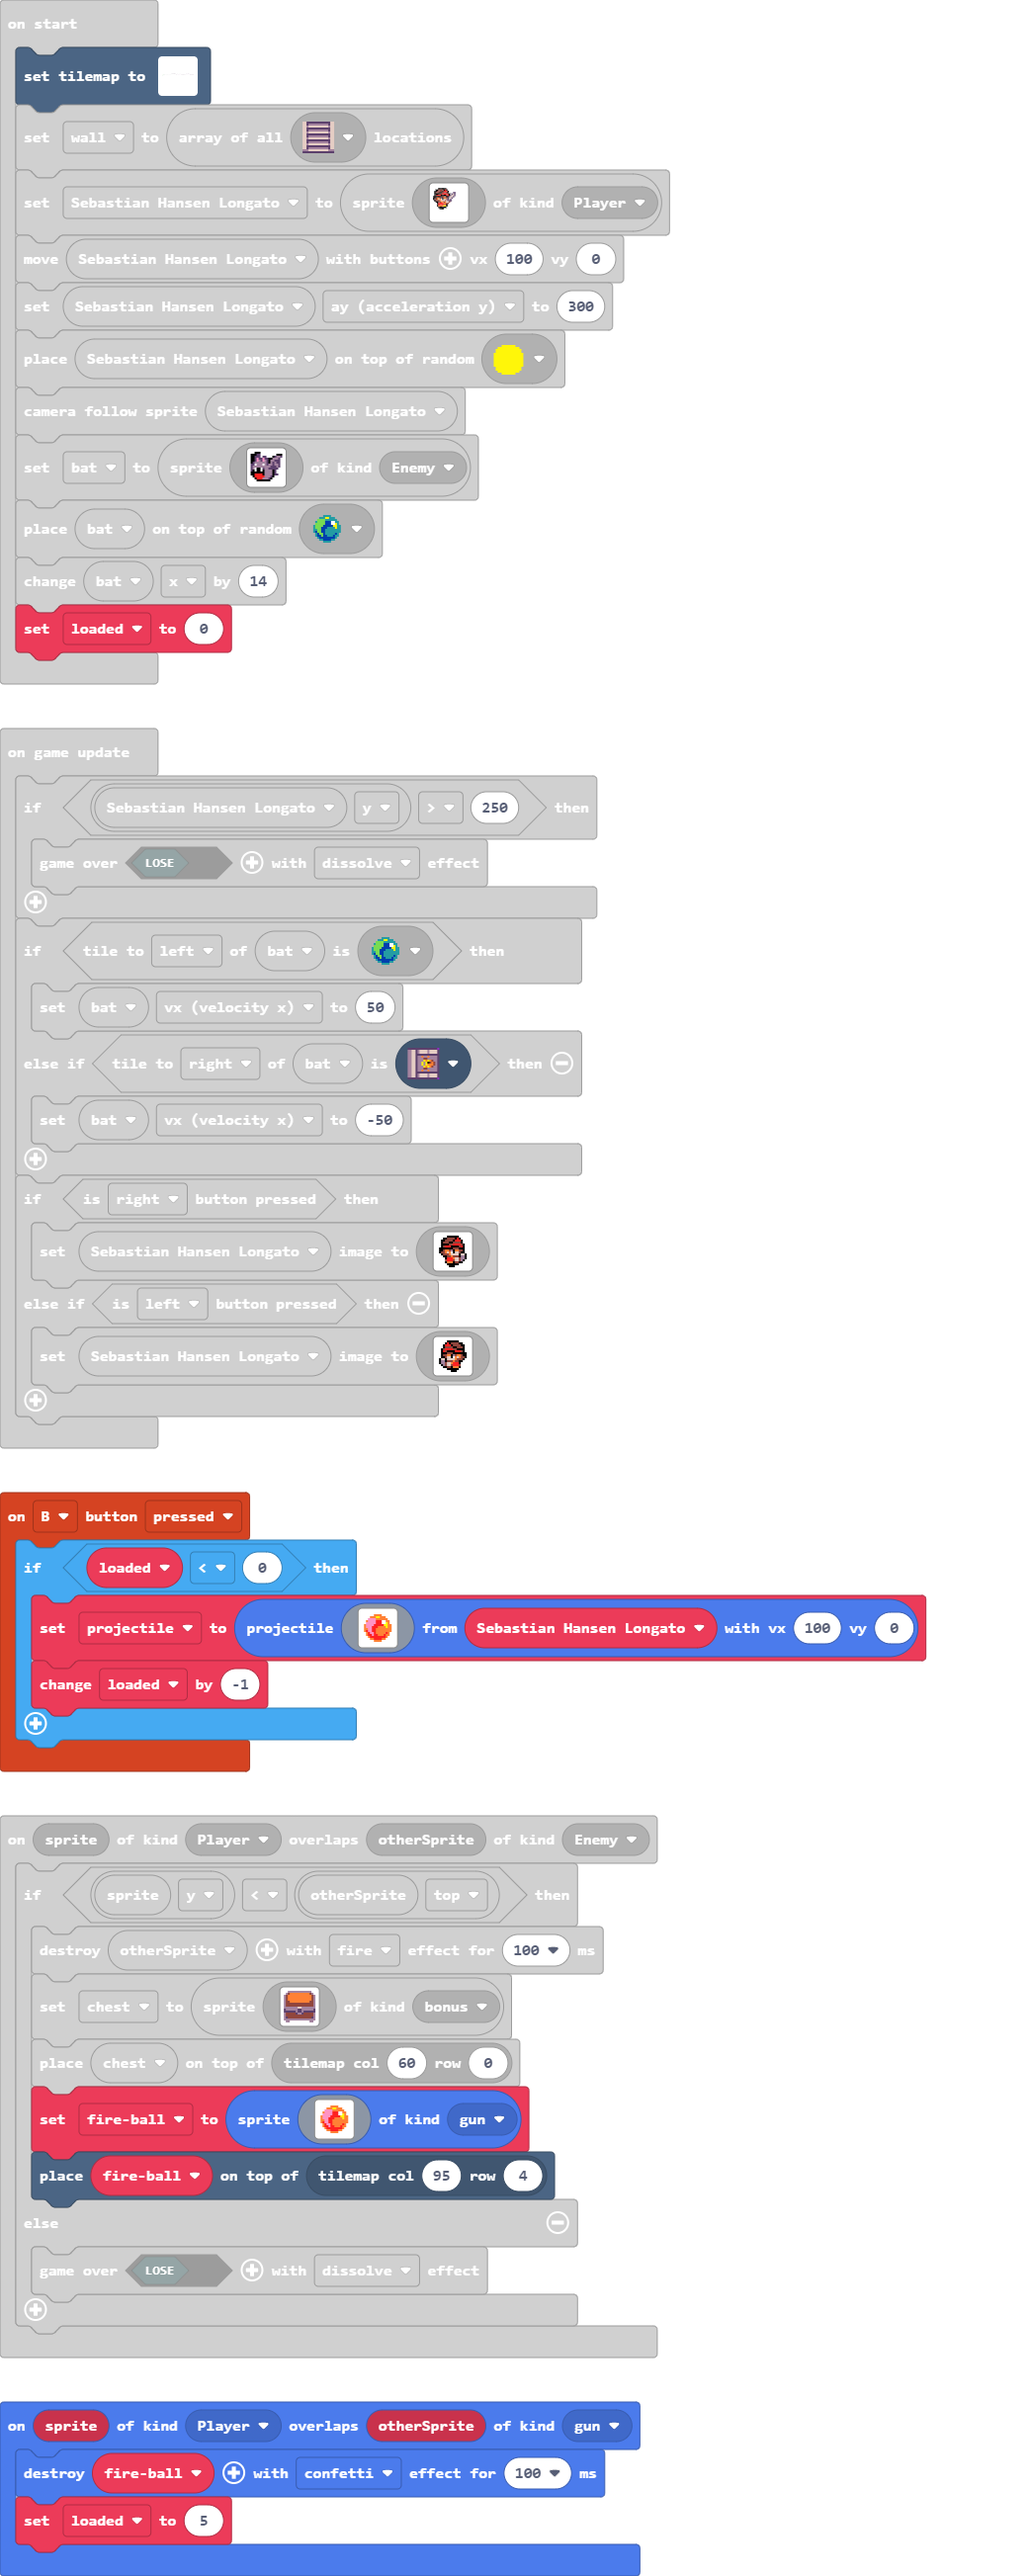
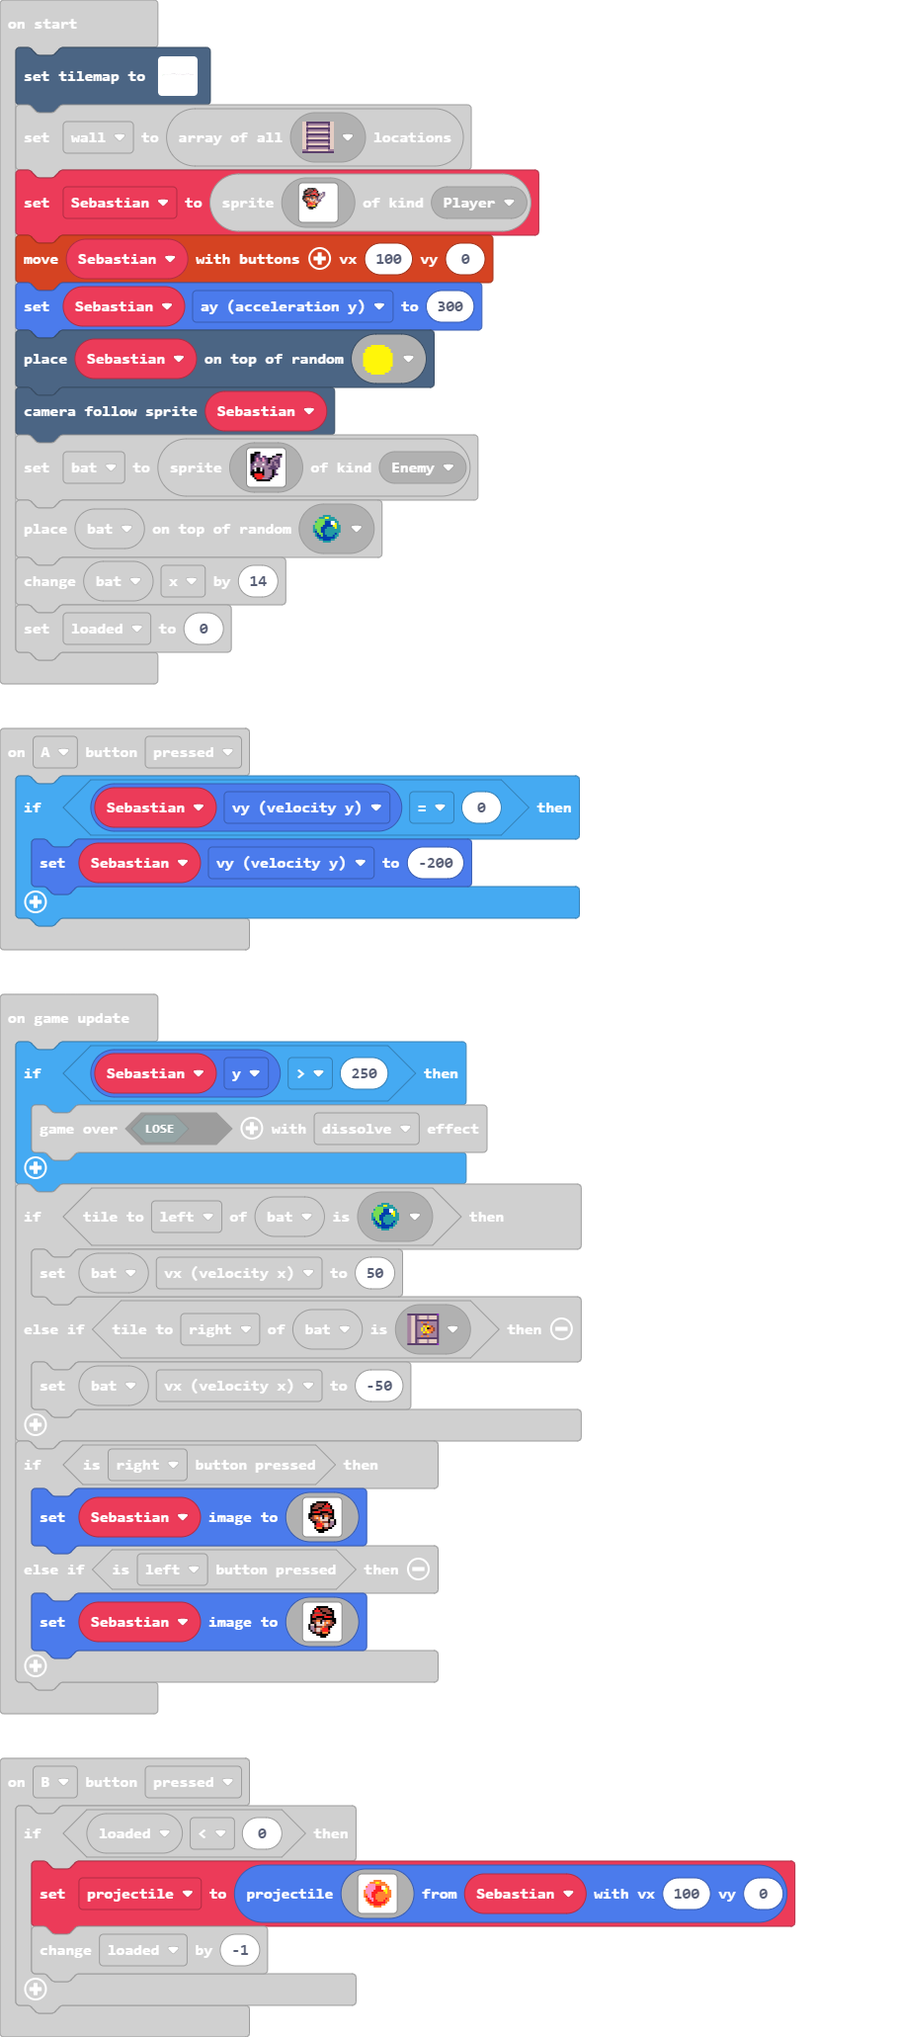
Update main.blocks, main.ts

diff --git a/main.ts b/main.ts
@@ -21,7 +21,7 @@ controller.B.onEvent(ControllerButtonEvent.Pressed, function () {
             . . . . 4 4 2 2 2 2 4 4 . . . . 
             . . . . . . 4 4 4 4 . . . . . . 
             . . . . . . . . . . . . . . . . 
-            `, Sebastian_Hansen_Longato, 100, 0)
+            `, Sebastian, 100, 0)
         loaded += -1
     }
 })
@@ -56,8 +56,8 @@ sprites.onOverlap(SpriteKind.Player, SpriteKind.bonus, function (sprite, otherSp
     }
 })
 controller.A.onEvent(ControllerButtonEvent.Pressed, function () {
-    if (Sebastian_Hansen_Longato.vy == 0) {
-        Sebastian_Hansen_Longato.vy = -200
+    if (Sebastian.vy == 0) {
+        Sebastian.vy = -200
     }
 })
 sprites.onOverlap(SpriteKind.Player, SpriteKind.Enemy, function (sprite, otherSprite) {
@@ -109,9 +109,9 @@ let chest: Sprite = null
 let fireball: Sprite = null
 let projectile: Sprite = null
 let loaded = 0
-let Sebastian_Hansen_Longato: Sprite = null
+let Sebastian: Sprite = null
 let wall: tiles.Location[] = []
[2 lines of base64/hex data omitted]
     ......................................................................................2.................................................................................................................
     ............................................................2222......................2.................................................................................................................
     ................................................................2.....................2...............................................................................222...............................
@@ -142,9 +142,9 @@ tiles.setTilemap(tiles.createTilemap(hex`c8001e000000000000000000000000000000000
     ........................................................................................................................................................................................................
     ........................................................................................................................................................................................................
     ........................................................................................................................................................................................................
-    `, [myTiles.transparency16,sprites.builtin.forestTiles0,sprites.castle.rock0,sprites.builtin.brick,sprites.dungeon.darkGroundNorthWest0,myTiles.tile1,sprites.dungeon.collectibleBlueCrystal,sprites.dungeon.darkGroundNorthWest1,sprites.dungeon.chestClosed,sprites.dungeon.stairNorth,sprites.dungeon.stairSouth,sprites.dungeon.doorLockedWest], TileScale.Sixteen))
+    `, [myTiles.transparency16,sprites.builtin.forestTiles0,sprites.castle.rock0,sprites.builtin.brick,sprites.dungeon.darkGroundNorthWest0,myTiles.tile1,sprites.dungeon.collectibleBlueCrystal,sprites.dungeon.darkGroundNorthWest1,sprites.dungeon.stairNorth,sprites.dungeon.stairSouth,sprites.dungeon.doorLockedWest], TileScale.Sixteen))
 wall = tiles.getTilesByType(sprites.dungeon.stairNorth)
-Sebastian_Hansen_Longato = sprites.create(img`
+Sebastian = sprites.create(img`
     ........................
     ....ffffff..............
     ..ffeeeef2f.............
@@ -170,10 +170,10 @@ Sebastian_Hansen_Longato = sprites.create(img`
     ........................
     ........................
     `, SpriteKind.Player)
-controller.moveSprite(Sebastian_Hansen_Longato, 100, 0)
-Sebastian_Hansen_Longato.ay = 300
-tiles.placeOnRandomTile(Sebastian_Hansen_Longato, myTiles.tile1)
-scene.cameraFollowSprite(Sebastian_Hansen_Longato)
+controller.moveSprite(Sebastian, 100, 0)
+Sebastian.ay = 300
+tiles.placeOnRandomTile(Sebastian, myTiles.tile1)
+scene.cameraFollowSprite(Sebastian)
 let bat = sprites.create(img`
     . . f f f . . . . . . . . . . . 
     f f f c c . . . . . . . . f f f 
@@ -196,7 +196,7 @@ tiles.placeOnRandomTile(bat, sprites.dungeon.collectibleBlueCrystal)
 bat.x += 14
 loaded = 0
 game.onUpdate(function () {
-    if (Sebastian_Hansen_Longato.y > 250) {
+    if (Sebastian.y > 250) {
         game.over(false, effects.dissolve)
     }
     if (bat.tileKindAt(TileDirection.Left, sprites.dungeon.collectibleBlueCrystal)) {
@@ -205,7 +205,7 @@ game.onUpdate(function () {
         bat.vx = -50
     }
     if (controller.right.isPressed()) {
-        Sebastian_Hansen_Longato.setImage(img`
+        Sebastian.setImage(img`
             . . . . . f f f f f f . . . . . 
             . . . f f e e e e f 2 f . . . . 
             . . f f e e e e f 2 2 2 f . . . 
@@ -224,7 +224,7 @@ game.onUpdate(function () {
             . . . . . . f f f . . . . . . . 
             `)
     } else if (controller.left.isPressed()) {
-        Sebastian_Hansen_Longato.setImage(img`
+        Sebastian.setImage(img`
             . . . . . f f f f f f . . . . . 
             . . . . f 2 f e e e e f f . . . 
             . . . f 2 2 2 f e e e e f f . . 
